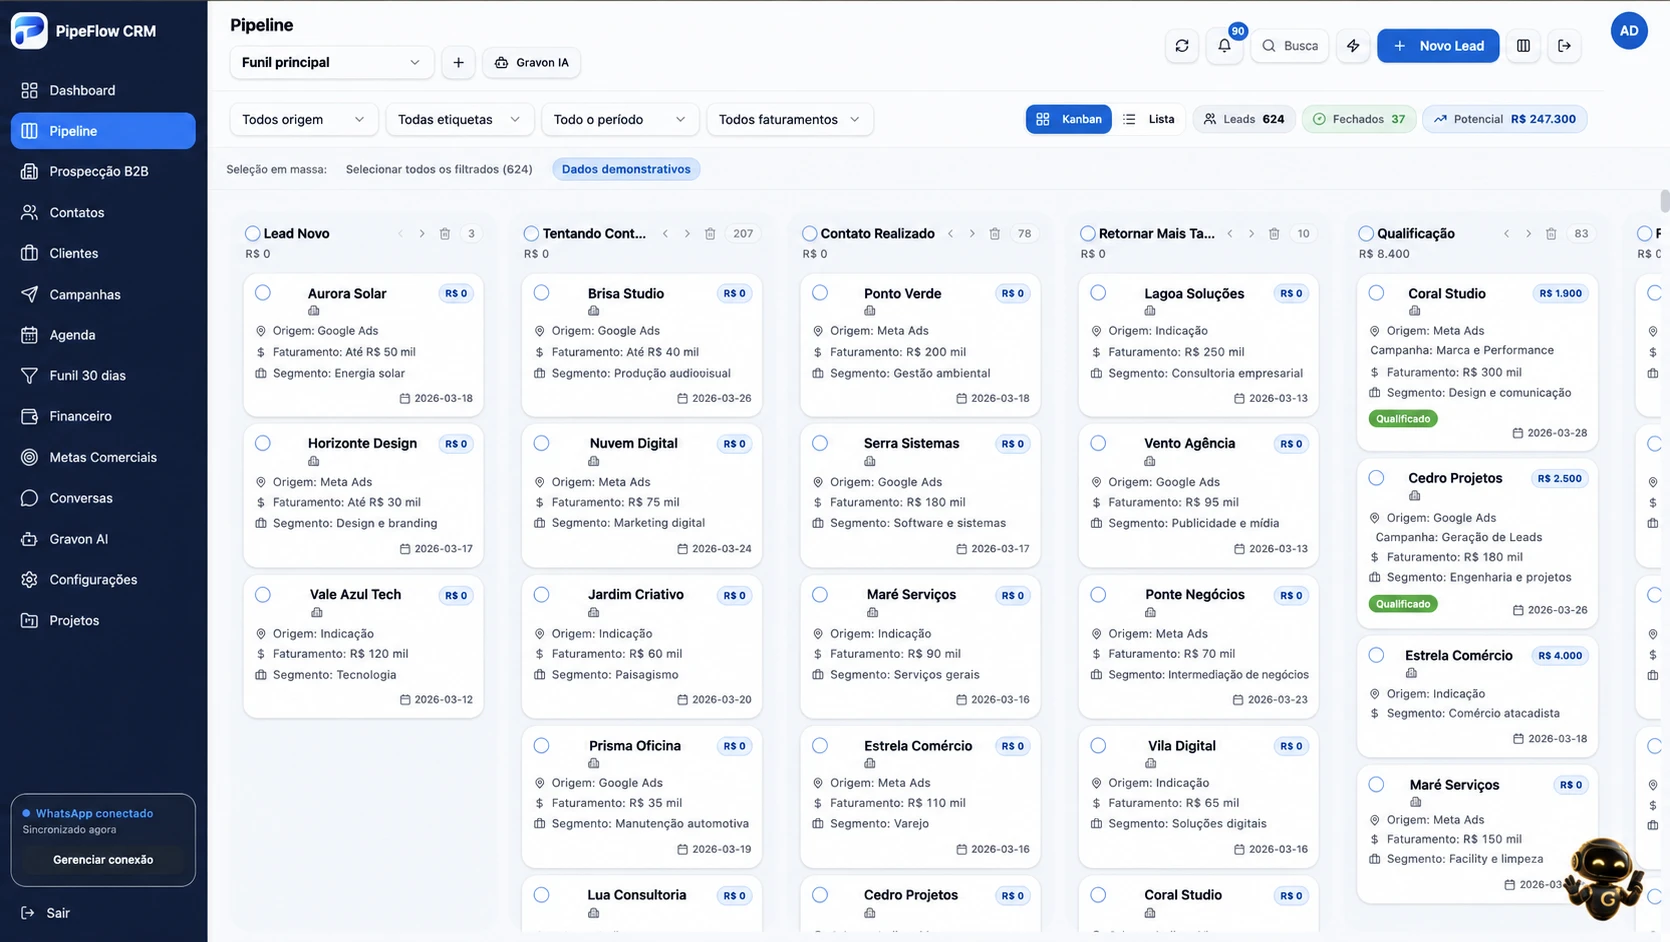
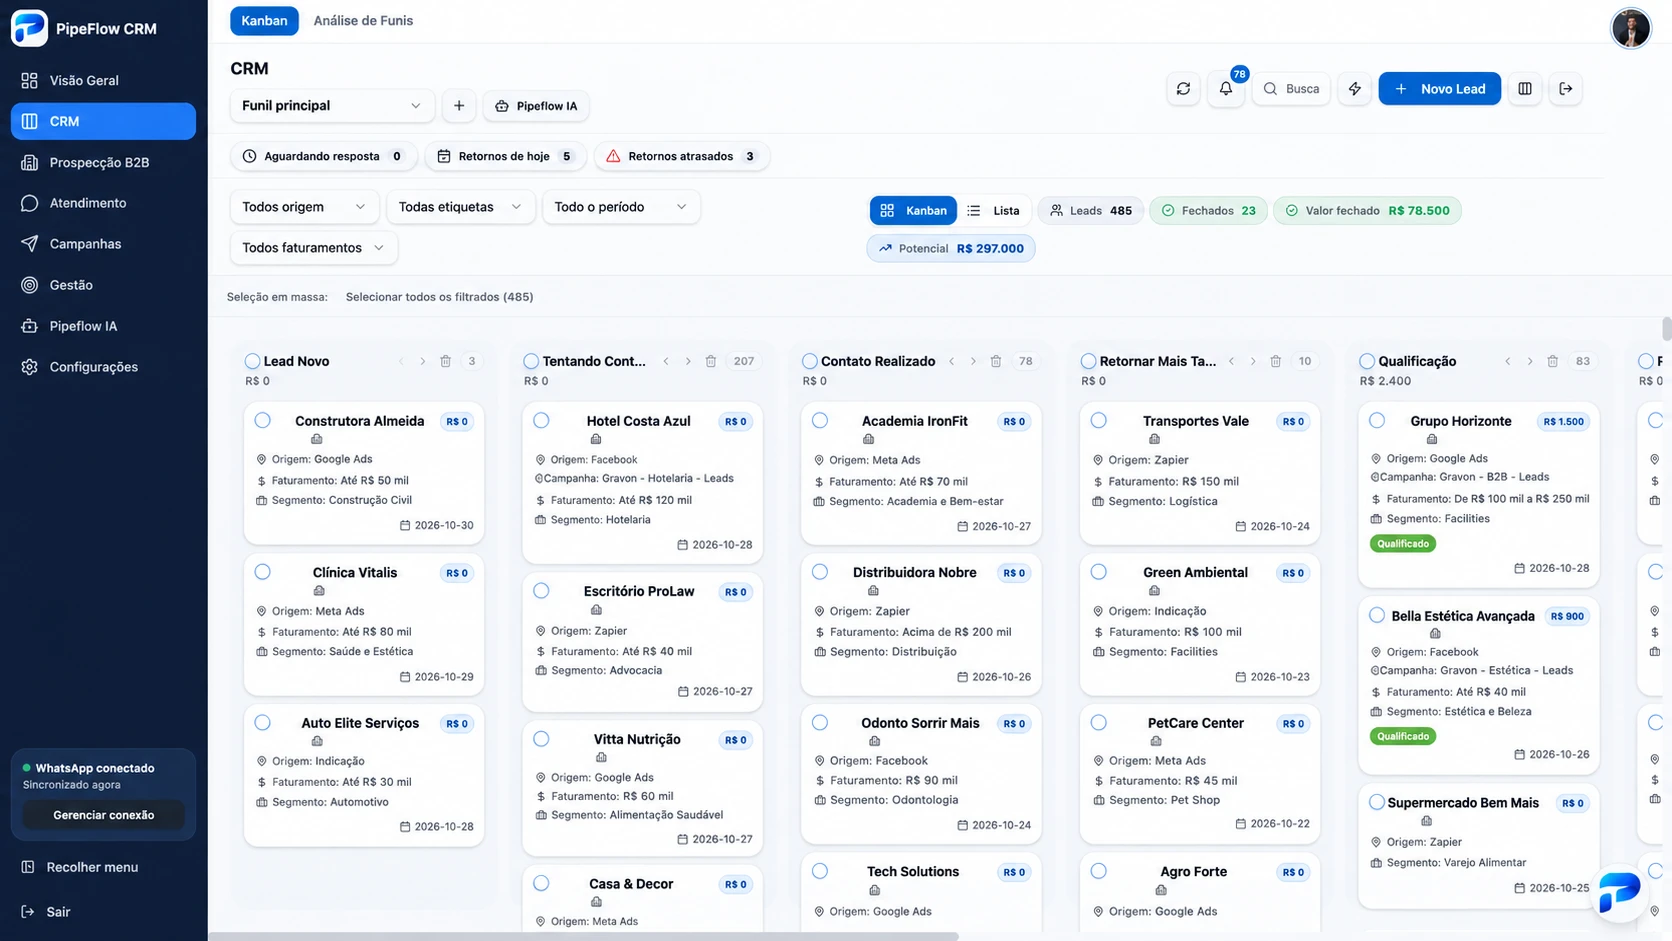
Atualiza capturas do CRM e renomeia Gravon IA para Pipeflow IA
- Substitui as capturas do Kanban, da ficha do lead e do chat de IA
  pelas telas atuais do Pipeflow CRM
- Atualiza títulos, dimensões e textos alternativos das capturas
- Troca as referências públicas de "Gravon IA" por "Pipeflow IA"
  nos planos, na tabela de recursos, na seção de IA e no README

Claude-Session: https://claude.ai/code/session_013G6EpvFpsGXCdaJ1rUBv5y

diff --git a/src/config/screens.ts b/src/config/screens.ts
@@ -1,6 +1,6 @@
 import pipeline from "../assets/screens/pipeline.webp";
 import fichaDoLead from "../assets/screens/ficha-do-lead.webp";
-import chatGravonIA from "../assets/screens/chat-gravon-ia.webp";
+import chatPipeflowIA from "../assets/screens/chat-pipeflow-ia.webp";
 
 export type Screen = {
   src: string;
@@ -16,10 +16,10 @@ export type Screen = {
 export const screens = {
   pipeline: {
     src: pipeline,
-    width: 1670,
-    height: 942,
-    title: "Pipeline · Funil principal",
-    alt: "Tela do Pipeline do PipeFlow CRM com as colunas Lead Novo, Tentando Contato, Contato Realizado, Retornar Mais Tarde e Qualificação, com cards de leads demonstrativos",
+    width: 1672,
+    height: 941,
+    title: "CRM · Kanban do funil principal",
+    alt: "Kanban do CRM no PipeFlow CRM com o funil principal, indicadores de leads, fechados, valor fechado e potencial, e as colunas Lead Novo, Tentando Contato, Contato Realizado, Retornar Mais Tarde e Qualificação com cards de leads demonstrativos",
   },
   fichaDoLead: {
     src: fichaDoLead,
@@ -27,13 +27,13 @@ export const screens = {
     height: 941,
     title: "Ficha do lead",
     focus: "right",
-    alt: "Ficha do lead aberta no PipeFlow CRM com informações de contato, origem, faturamento, serviço de interesse, valor potencial, última atualização e controle da Gravon IA",
+    alt: "Kanban do CRM no PipeFlow CRM com o painel lateral Dados do lead aberto, mostrando nome, empresa, WhatsApp, e-mail, faturamento, origem, serviço de interesse, valor potencial, status, etapa do funil, etiquetas e origem da campanha (UTM) de um lead demonstrativo",
   },
-  chatGravonIA: {
-    src: chatGravonIA,
-    width: 1670,
-    height: 941,
-    title: "Chat Gravon IA",
-    alt: "Tela do Chat Gravon IA no PipeFlow CRM sugerindo uma resposta curta e profissional para um lead demonstrativo",
+  chatPipeflowIA: {
+    src: chatPipeflowIA,
+    width: 2000,
+    height: 1129,
+    title: "Chat Pipeflow IA",
+    alt: "Tela do Chat Pipeflow IA no PipeFlow CRM explicando como ajuda: consultar a base de conhecimento comercial, salvar informações, consultar horários e agendar reuniões, preparar mensagens para leads e analisar informações compartilhadas",
   },
 } satisfies Record<string, Screen>;

diff --git a/src/config/plans.ts b/src/config/plans.ts
@@ -68,8 +68,8 @@ export const plans: Plan[] = [
       "Gestão de leads e clientes",
       "Até 2 funis de vendas",
       "1 conexão de WhatsApp",
-      "Qualificação de leads com Gravon IA",
-      "Chat Gravon IA e base de conhecimento",
+      "Qualificação de leads com Pipeflow IA",
+      "Chat Pipeflow IA e base de conhecimento",
       "Integração com Google Agenda",
     ],
   },
@@ -115,7 +115,7 @@ export const plans: Plan[] = [
       },
       {
         title: "Open Finance + Inteligência Financeira com IA",
-        text: "Seu financeiro conectado ao banco e analisado pela Gravon IA.",
+        text: "Seu financeiro conectado ao banco e analisado pela Pipeflow IA.",
         points: [
           "Conexão bancária via Open Finance",
           "Receitas e despesas organizadas por categoria",
@@ -135,10 +135,10 @@ export const features: Feature[] = [
   { label: "Gestão de leads e clientes", icon: Users, values: all() },
   { label: "Funis de vendas", icon: Filter, values: tiers("Até 2", "Até 10", "Personalizado") },
   { label: "Integração com WhatsApp", icon: MessageCircle, values: tiers("1 conexão", "Até 3 conexões", "Personalizado") },
-  { label: "Qualificação de leads com Gravon IA", icon: Sparkles, values: all() },
+  { label: "Qualificação de leads com Pipeflow IA", icon: Sparkles, values: all() },
   { label: "Análise de atendimento com IA", icon: ScanSearch, values: tiers("Básica", "Avançada", "Personalizada") },
   { label: "Automação de WhatsApp", icon: Workflow, values: tiers("Básica", "Avançada", "Personalizada") },
-  { label: "Chat Gravon IA", icon: Bot, values: all() },
+  { label: "Chat Pipeflow IA", icon: Bot, values: all() },
   { label: "Base de conhecimento", icon: BookOpen, values: all() },
   { label: "Relatórios comerciais", icon: FileBarChart, values: tiers("Básicos", "Avançados", "Personalizados") },
   { label: "Prospecção B2B com Google Maps", icon: MapPin, values: pro },

diff --git a/src/components/sections/AI.tsx b/src/components/sections/AI.tsx
@@ -19,7 +19,7 @@ export function AI() {
       <div className="pointer-events-none absolute -left-40 top-1/3 h-96 w-96 rounded-full bg-brand-500/20 blur-[120px]" aria-hidden />
       <Container className="relative grid items-center gap-12 lg:grid-cols-[1fr_1.05fr] lg:gap-16">
         <Reveal className="order-2 lg:order-1">
-          <ScreenshotSlot screen={screens.chatGravonIA} tone="dark" />
+          <ScreenshotSlot screen={screens.chatPipeflowIA} tone="dark" />
         </Reveal>
         <div className="order-1 lg:order-2">
           <SectionHeading
@@ -27,7 +27,7 @@ export function AI() {
             tone="dark"
             eyebrow="Inteligência artificial"
             title={<>IA que analisa, sugere e <span className="text-gradient">deixa a decisão com você</span></>}
-            description="Use a inteligência artificial para entender cada conversa, priorizar leads com mais aderência e ganhar tempo no dia a dia comercial."
+            description="Use a Pipeflow IA para entender cada conversa, priorizar leads com mais aderência e ganhar tempo no dia a dia comercial."
           />
           <div className="mt-10 grid gap-5 sm:grid-cols-2">
             {items.map(({ icon: Icon, title, text }, i) => (

diff --git a/README.md b/README.md
@@ -24,7 +24,7 @@ npm run preview    # pré-visualiza o build em http://localhost:4173
 As capturas ficam em `src/assets/screens/` e são configuradas em `src/config/screens.ts`
 (título, texto alternativo, tamanho e lado em destaque na ampliação). Ao clicar, a imagem abre ampliada.
 
-Telas atuais: Pipeline (apresentação inicial), Ficha do lead (Funil de vendas) e Chat Gravon IA (Inteligência artificial).
+Telas atuais: Pipeline (apresentação inicial), Ficha do lead (Funil de vendas) e Chat Pipeflow IA (Inteligência artificial).
 
 ## Pendências antes de publicar
 
